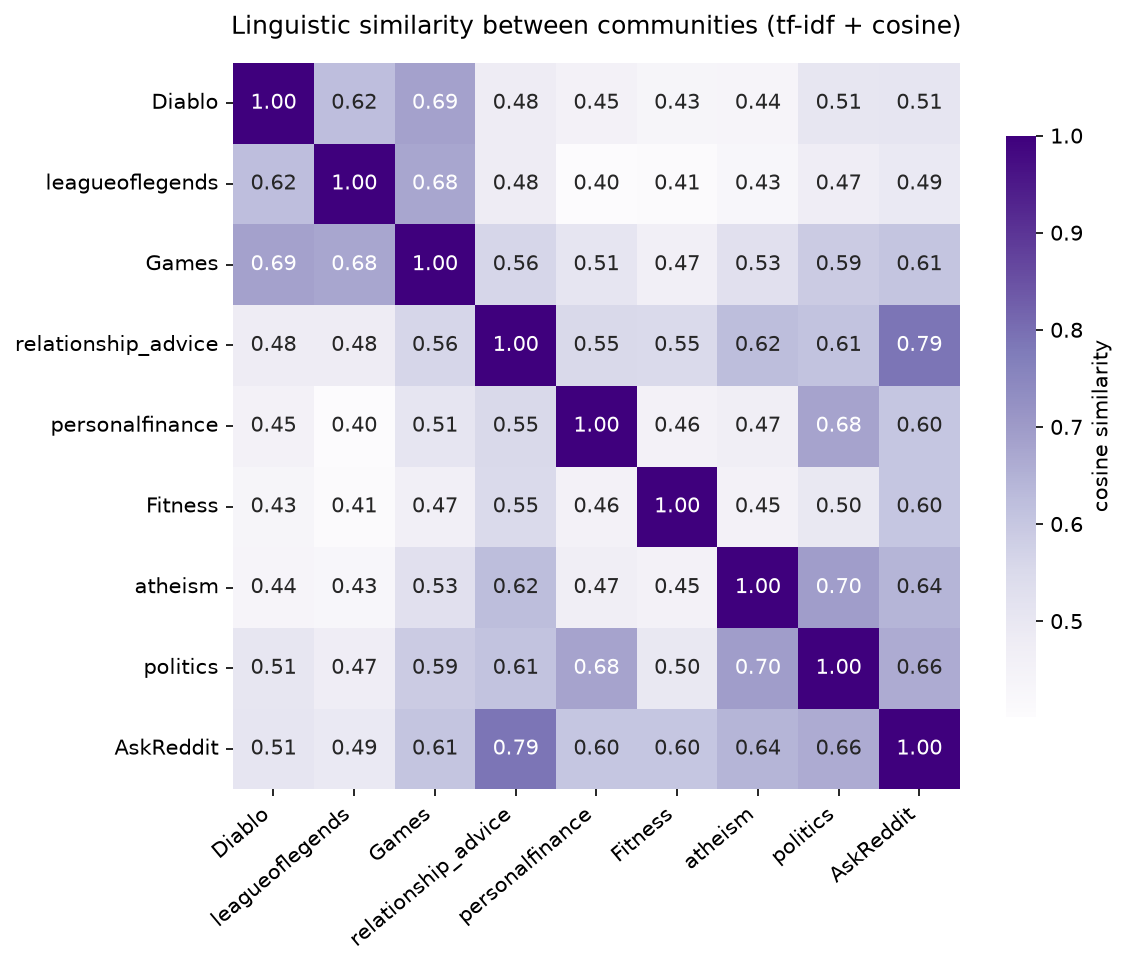
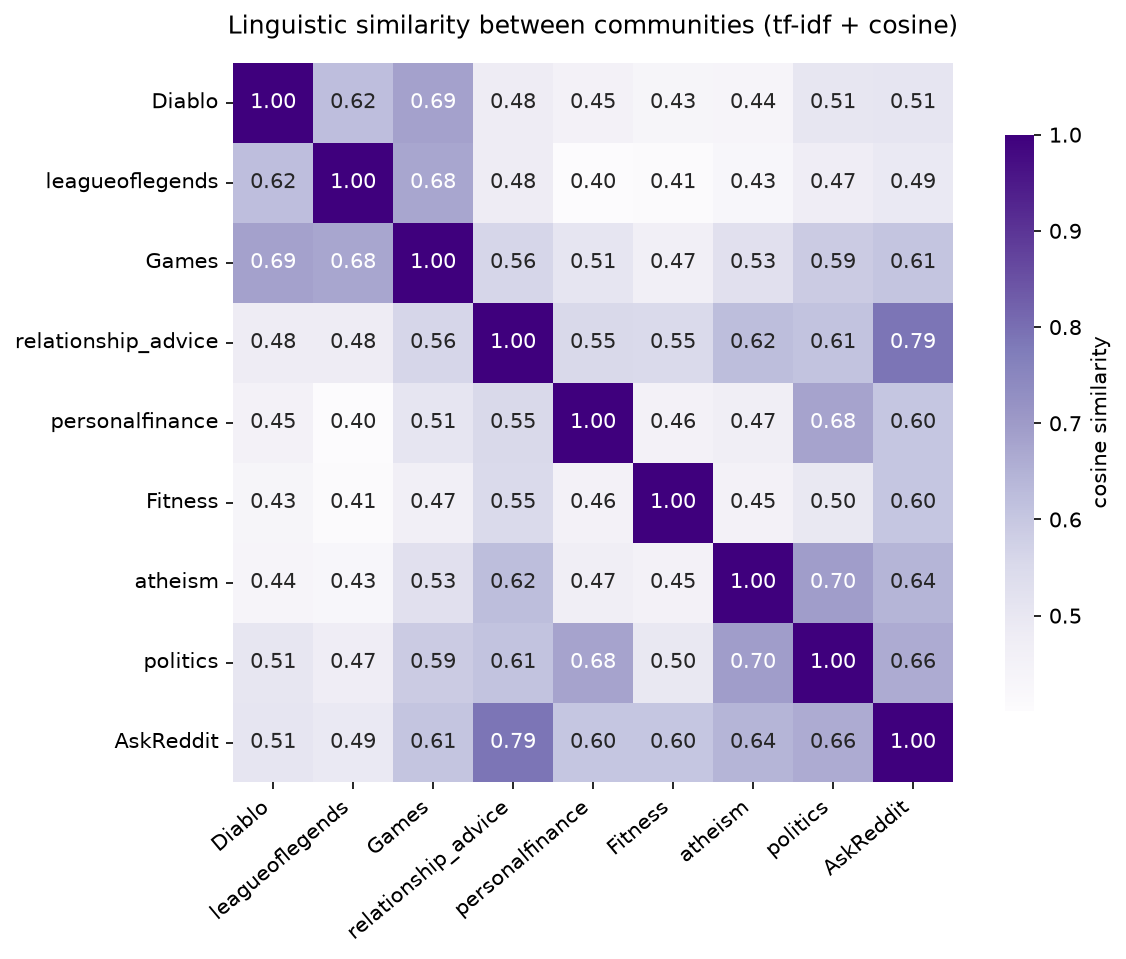
doc: Change size of heatmap matrix

diff --git a/code/src/run.py b/code/src/run.py
@@ -19,8 +19,8 @@ def main():
     plot_distinctive_terms(terms, profiles)
 
     # BERT-based similarity
-    _, profiles_bert = compute_bert_profiles(df)
-    plot_bert_heatmap(profiles_bert)
+    #_, profiles_bert = compute_bert_profiles(df)
+    #plot_bert_heatmap(profiles_bert)
 
     # Naive Bayes classifier
     run_classifier(df)

diff --git a/code/src/tf_idf_similarity.py b/code/src/tf_idf_similarity.py
@@ -18,7 +18,7 @@ def compute_profiles(df):
 def plot_heatmap(profiles, save=True):
     """Plot cosine similarity heatmap of the per-community tf-idf profiles."""
     sim = cosine_similarity(profiles)
-    plt.figure(figsize=(8, 6.5))
+    plt.figure(figsize=(8.5, 6.5))
     sns.heatmap(sim, annot=True, fmt=".2f", cmap="Purples", xticklabels=TARGET_SUBS, yticklabels=TARGET_SUBS, square=True, cbar_kws={"label": "cosine similarity", "shrink": .8})
     plt.title("Linguistic similarity between communities (tf-idf + cosine)", pad=14)
     plt.xticks(rotation=40, ha="right")